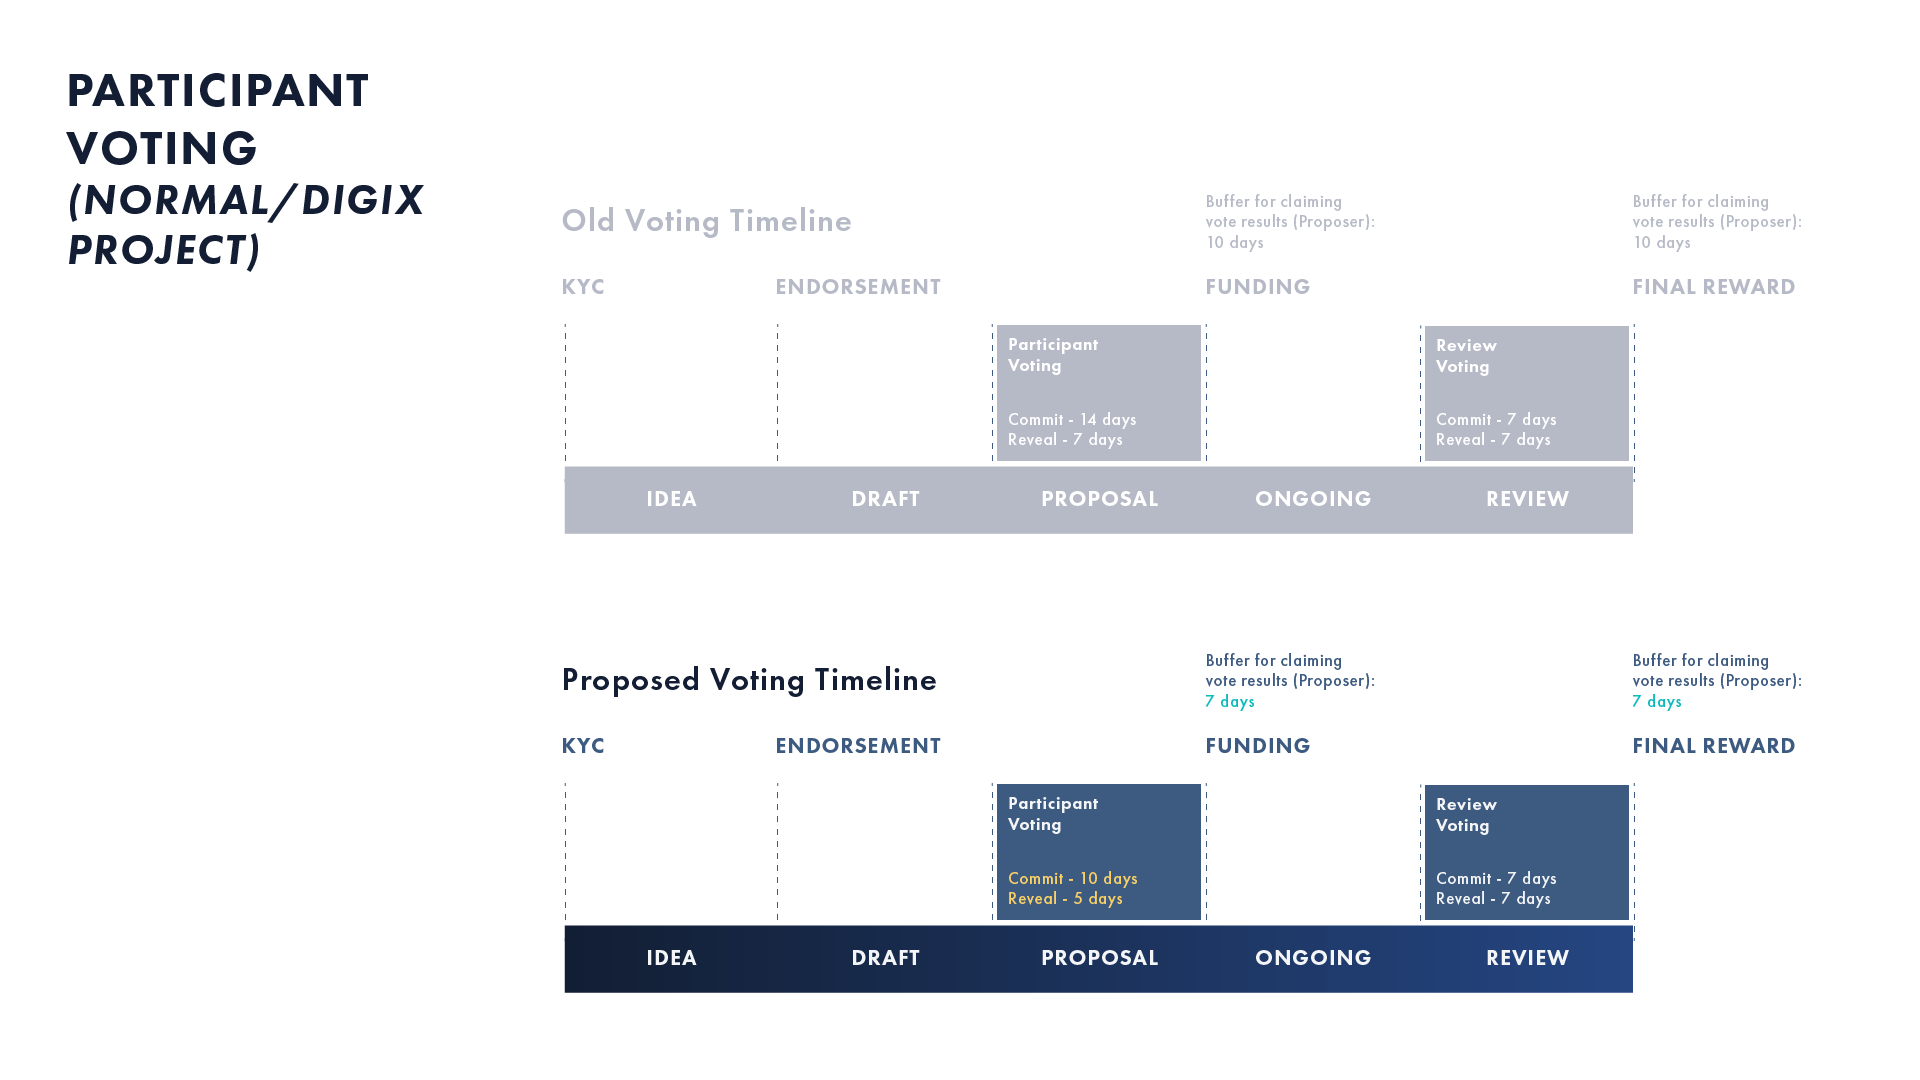
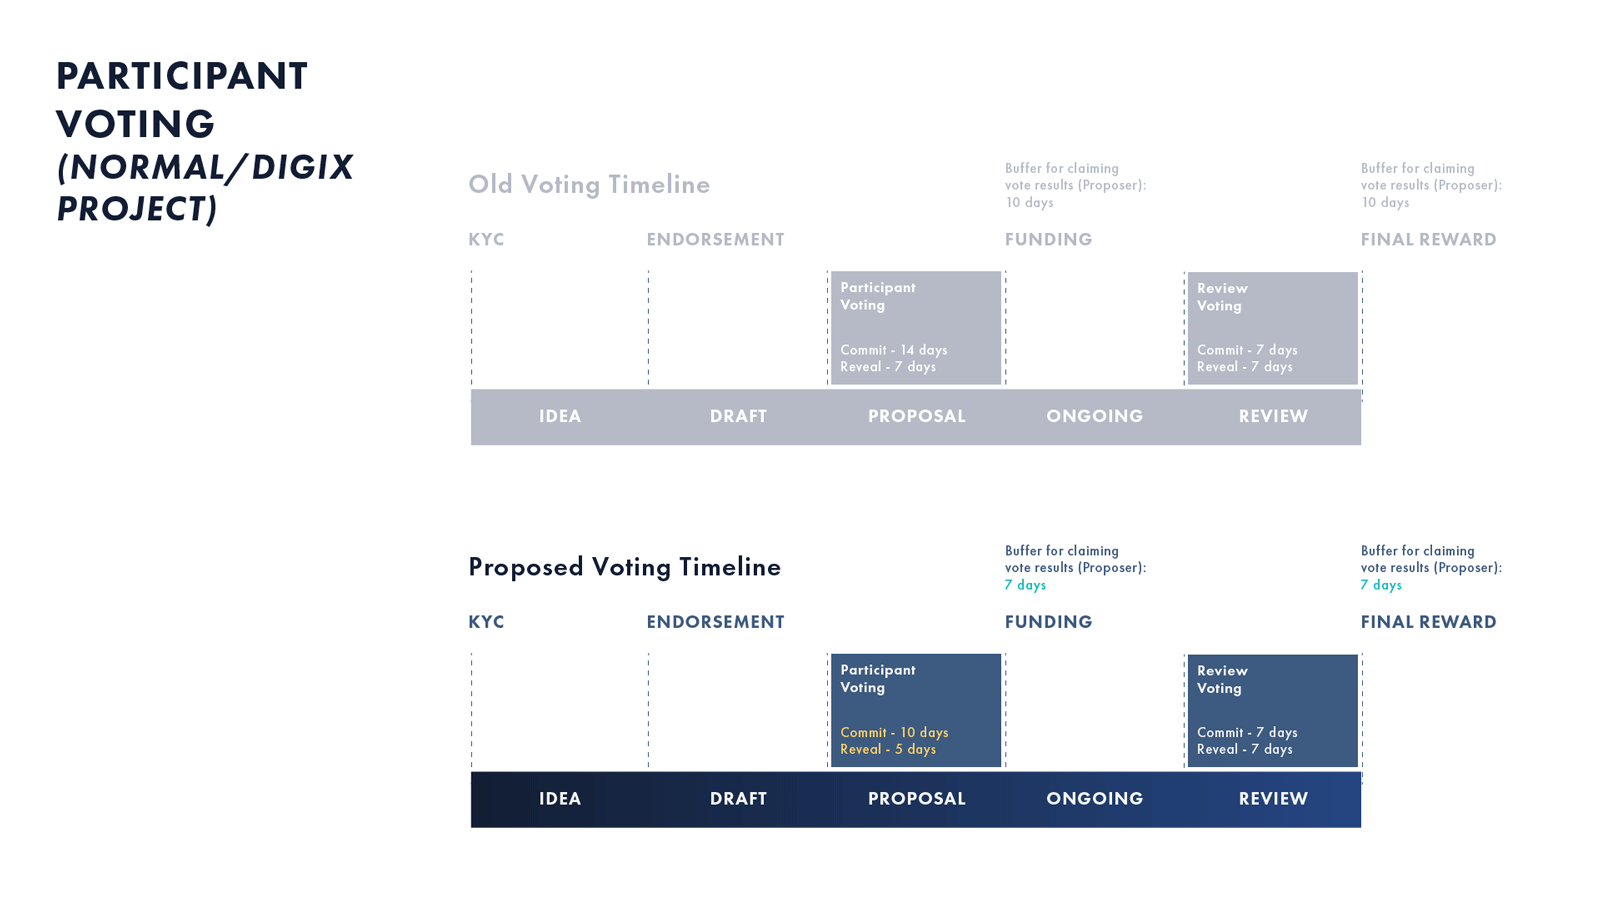
Update Special Proposal images

diff --git a/src/pages/proposals/special-project-details.js b/src/pages/proposals/special-project-details.js
@@ -93,18 +93,10 @@ const SpecialProjectDetails = props => (
         channel.
       </p>
       <p>
-        <img
-          src={DigixDAOConfigChange02}
-          alt="Participant Voting - Special Project"
-          width="800px"
-        />
+        <img src={DigixDAOConfigChange02} alt="Participant Voting - Special Project" width="100%" />
       </p>
       <p>
-        <img
-          src={DigixDAOConfigChange01}
-          alt="Participant Voting - Normal Project"
-          width="1200px"
-        />
+        <img src={DigixDAOConfigChange01} alt="Participant Voting - Normal Project" width="100%" />
       </p>
       {/* TODO: re-instate this later once special proposals need to be displayed */}
       {/* <SubTitle>Configuration Details</SubTitle>
